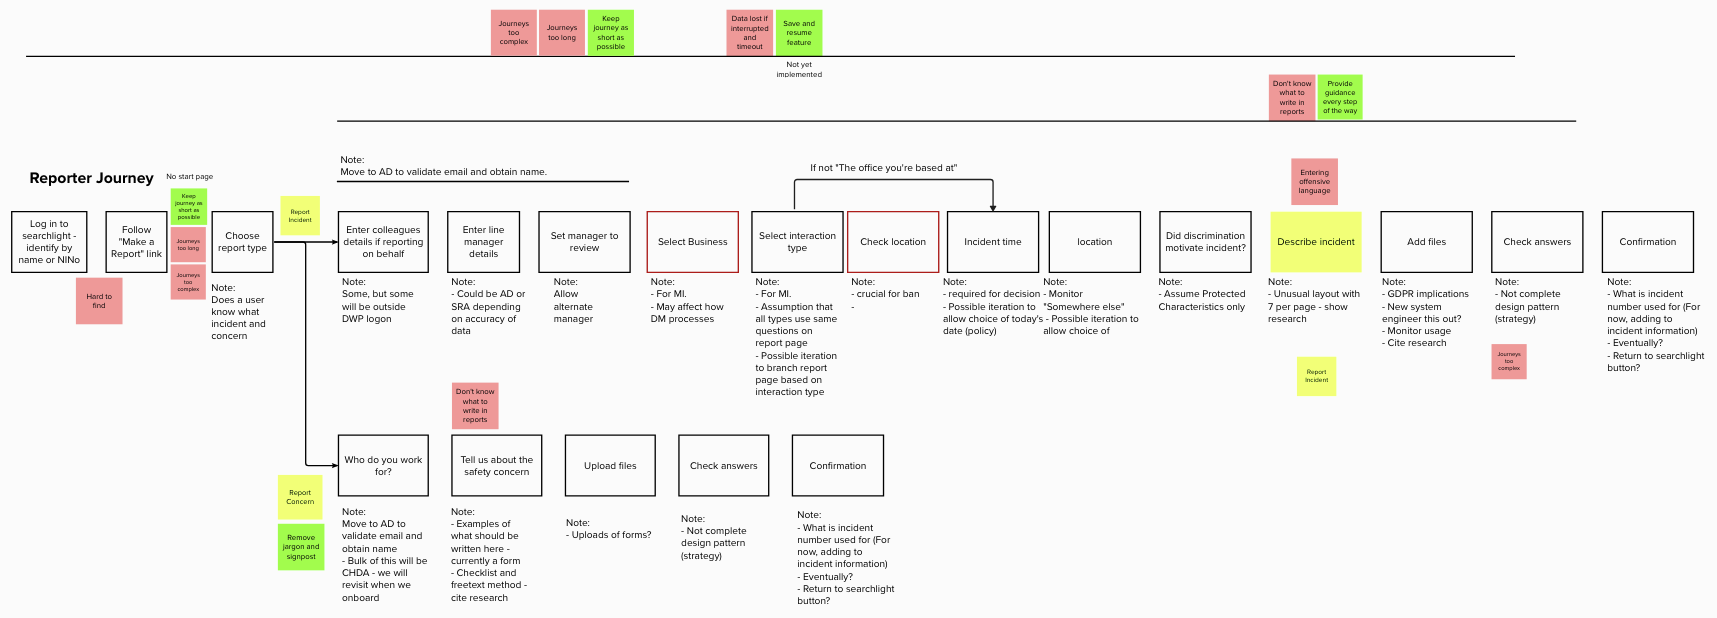
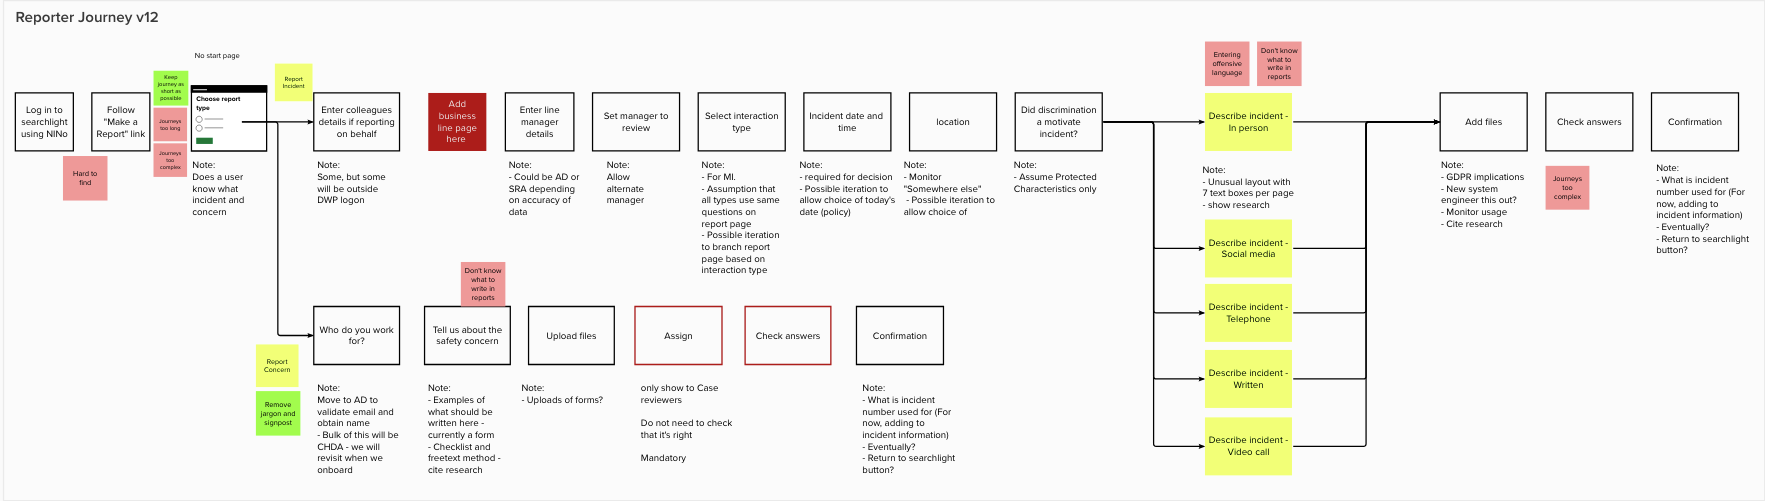
Merge pull request #139 from dwp/assign-case-in-concern-journey
feat (reporter) assign concern in reporter journey

GitOrigin-RevId: f6f52a86bad64d320150d85c279e861376f12af1

Changed region(s): [[0.0, 0.0, 0.9878, 0.988], [0.0, 0.0299, 0.0926, 0.0599]]

diff --git a/app/views/beta/report_incident/reportv12/c03assign_error.html b/app/views/beta/report_incident/reportv12/c03assign_error.html
@@ -1,0 +1,75 @@
+{% extends "layout.html" %}
+{% block pageTitle %}
+  Error: Who should we assign this report to? - Keep Customer Interactions Safe
+{% endblock %}
+{% block beforeContent %}
+  <section aria-label="Phase banner" role="region">
+    {{ govukPhaseBanner({
+      tag: {
+      text: "beta"
+    },
+      html: 'This is a new service – your <a class="govuk-link" href="14reassign_bst_error">feedback</a> will help us to improve it.'
+    }) }}
+  </section>
+  {% include "./templates/key_details_robert_blue.njk" %}
+  <section aria-label="Back" role="region">
+    {{ govukBackLink({
+      text: "Back",
+      href: "javascript:history.back()"
+    }) }}
+  </section>
+{% endblock %}
+{% block content %}
+    <div class="govuk-grid-row">
+      <div class="govuk-grid-column-two-thirds">
+        {{ govukErrorSummary({
+          titleText: "There is a problem",
+          errorList: [
+            {
+              text: "Tell us who should review this report",
+              href: "#assign-by-email"
+            },
+            {
+              text: "Enter their email address",
+              href: "#assign-by-email"
+            },
+            {
+              text: "Enter their email address, in the format name@example.com",
+              href: "#assign-by-email"
+            },
+            {
+              text: "This person cannot access the service",
+              href: "#assign-by-email"
+            }
+          ]
+        }) }}
+        {{ govukInput({
+        id: "assign-by-email",
+        name: "assign-by-email",
+        type: "email",
+        autocomplete: "email",
+        spellcheck: false,
+        hint: {
+          text: "Tell us the email of the decision maker to assign this report to."
+        },
+        label: {
+          text: "Who should we assign this report to?",
+          isPageHeading: true,
+          classes: "govuk-label--l"
+        },
+        errorMessage: {
+          text: "Tell us who should review this report"
+        }
+      }) }}
+      <div class="govuk-button-group">
+        {{ govukButton({
+          text: "Continue",
+          href: "c04check"
+        }) }}
+      </div>
+    </div>
+  </div>
+	{% if not (checked("displaymode", "presentation") == "checked") %}
+		{% include "./notes/c03assign__notes.njk" %}
+	{% endif %}
+{% endblock %}

diff --git a/app/views/beta/report_incident/reportv12/c04check_other.html b/app/views/beta/report_incident/reportv12/c04check_other.html
@@ -14,7 +14,7 @@
       html: 'This is a new service – your <a class="govuk-link" href="#">feedback</a> will help us to improve it.'
     }) }}
   </section>
-  {% include "templates/v2/header_searchlight.njk" %}
+  {% include "./templates/key_details_robert_blue.njk" %}
   <section aria-label="Back" role="region">
     {{ govukBackLink({
       text: "Back",
@@ -30,23 +30,6 @@
   <div class="govuk-!-padding-bottom-9">
     {{ govukSummaryList({
       rows: [
-        {
-          key: {
-            text: "Concern date"
-          },
-          value: {
-            text: "2 August 2023"
-          },
-          actions: {
-            items: [
-              {
-                href: "#",
-                text: "Change",
-                visuallyHiddenText: "Concern date"
-              }
-            ]
-          }
-        },
         {
           key: {
             text: "Work for"
@@ -80,6 +63,23 @@
               }
             ]
           }
+        },
+        {
+          key: {
+            text: "Assign to colleague"
+          },
+          value: {
+            text: "Sadiq Assam"
+          },
+          actions: {
+            items: [
+              {
+                href: "#",
+                text: "Change",
+                visuallyHiddenText: "Assign to colleague"
+              }
+            ]
+          }
         }
       ]
     }) }}
@@ -101,13 +101,13 @@
         {{ govukButton(
             {
               text: "Submit",
-              href: "c04confirm"
+              href: "c05confirm"
             }
           ) }}
       </div>
     </div>
   </div>
 	{% if not (checked("displaymode", "presentation") == "checked") %}
-		{% include "./notes/c03check__notes.njk" %}
+		{% include "./notes/c04check__notes.njk" %}
 	{% endif %}
 {% endblock %}

diff --git a/app/views/beta/report_incident/reportv12/c03assign.html b/app/views/beta/report_incident/reportv12/c03assign.html
@@ -1,0 +1,51 @@
+{% extends "layout.html" %}
+{% block pageTitle %}
+Who should we assign this report to? - Keep Customer Interactions Safe
+{% endblock %}
+{% block beforeContent %}
+  <section aria-label="Phase banner" role="region">
+    {{ govukPhaseBanner({
+      tag: {
+      text: "beta"
+    },
+      html: 'This is a new service – your <a class="govuk-link" href="14reassign_bst_error">feedback</a> will help us to improve it.'
+    }) }}
+  </section>
+  {% include "./templates/key_details_robert_blue.njk" %}
+  <section aria-label="Back" role="region">
+    {{ govukBackLink({
+      text: "Back",
+      href: "javascript:history.back()"
+    }) }}
+  </section>
+{% endblock %}
+{% block content %}
+    <div class="govuk-grid-row">
+      <div class="govuk-grid-column-two-thirds">
+      {{ govukInput({
+        id: "contact-by-email",
+        name: "contact-by-email",
+        type: "email",
+        autocomplete: "email",
+        spellcheck: false,
+        hint: {
+          text: "Tell us the email of the decision maker to assign this report to."
+        },
+        label: {
+          text: "Who should we assign this report to?",
+          isPageHeading: true,
+          classes: "govuk-label--l"
+        }
+      }) }}
+      <div class="govuk-button-group">
+        {{ govukButton({
+          text: "Continue",
+          href: "c04check"
+        }) }}
+      </div>
+    </div>
+  </div>
+	{% if not (checked("displaymode", "presentation") == "checked") %}
+		{% include "./notes/c03assign__notes.njk" %}
+	{% endif %}
+{% endblock %}

diff --git a/app/views/index.html b/app/views/index.html
@@ -141,8 +141,9 @@ Prototype index - Keep Customer Interactions Safe
 									<li><a href="/beta/report_incident/reportv12/c00agentsource">c00agentsource</a></li>
 									<li><a href="/beta/report_incident/reportv12/c01comments">c01 comments</a></li>
 									<li><a href="/beta/report_incident/reportv12/c02fileuploadcheck">c02 fileuploadcheck</a></li>
-									<li><a href="/beta/report_incident/reportv12/c03check">c03 check</a></li>
-									<li><a href="/beta/report_incident/reportv12/c04confirm">c04 confirm</a></li>
+									<li><a href="/beta/report_incident/reportv12/c03assign">c03 assign</a></li>
+									<li><a href="/beta/report_incident/reportv12/c04check">c04 check</a></li>
+									<li><a href="/beta/report_incident/reportv12/c05confirm">c05 confirm</a></li>
 								</ul>
 								<p class="govuk-body">Concern - not used</p>
 								<ul class="govuk-list">

diff --git a/app/views/beta/report_incident/reportv12/c04check.html b/app/views/beta/report_incident/reportv12/c04check.html
@@ -13,7 +13,7 @@
       html: 'This is a new service – your <a class="govuk-link" href="#">feedback</a> will help us to improve it.'
     }) }}
   </section>
-  {% include "templates/v2/header_searchlight.njk" %}
+  {% include "./templates/key_details_robert_blue.njk" %}
   <section aria-label="Back" role="region">
     {{ govukBackLink({
       text: "Back",
@@ -93,13 +93,13 @@
         {{ govukButton(
             {
               text: "Submit",
-              href: "c04confirm"
+              href: "c05confirm"
             }
         ) }}
       </div>
     </div>
   </div>
 	{% if not (checked("displaymode", "presentation") == "checked") %}
-		{% include "./notes/c03check__notes.njk" %}
+		{% include "./notes/c04check__notes.njk" %}
 	{% endif %}
 {% endblock %}

diff --git a/app/views/beta/report_incident/reportv12/c02fileuploadcheck.html b/app/views/beta/report_incident/reportv12/c02fileuploadcheck.html
@@ -13,7 +13,7 @@
       html: 'This is a new service – your <a class="govuk-link" href="10add_error">feedback</a> will help us to improve it.'
     }) }}
   </section>
-  {% include "templates/v2/header_searchlight.njk" %}
+  {% include "./templates/key_details_robert_blue.njk" %}
   <section aria-label="Back" role="region">
     {{ govukBackLink({
       text: "Back",
@@ -52,7 +52,7 @@
       <div>
         {{ govukButton({
           text: "Continue",
-          href: "c03check"
+          href: "c03assign"
         }) }}
       </div>
     </div>

diff --git a/app/views/beta/report_incident/reportv12/c02fileuploadcheck_error.html b/app/views/beta/report_incident/reportv12/c02fileuploadcheck_error.html
@@ -13,7 +13,7 @@
       html: 'This is a new service – your <a class="govuk-link" href="#">feedback</a> will help us to improve it.'
     }) }}
   </section>
-  {% include "templates/v2/header_searchlight.njk" %}
+  {% include "./templates/key_details_robert_blue.njk" %}
   <section aria-label="Back" role="region">
     {{ govukBackLink({
       text: "Back",
@@ -64,7 +64,7 @@
       <div>
         {{ govukButton({
           text: "Continue",
-          href: "c03check"
+          href: "c03assign"
         }) }}
       </div>
     </div>

diff --git a/app/views/beta/report_incident/reportv12/c00agentsource.html b/app/views/beta/report_incident/reportv12/c00agentsource.html
@@ -13,7 +13,7 @@
       html: 'This is a new service – your <a class="govuk-link" href="00agentsource_error">feedback</a> will help us to improve it.'
     }) }}
   </section>
-  {% include "templates/v2/header_searchlight.njk" %}
+  {% include "./templates/key_details_robert_blue.njk" %}
   <section aria-label="Back" role="region">
     {{ govukBackLink({
       text: "Back",

diff --git a/app/views/beta/report_incident/reportv12/c00agentsource_error.html b/app/views/beta/report_incident/reportv12/c00agentsource_error.html
@@ -13,7 +13,7 @@
       html: 'This is a new service – your <a class="govuk-link" href="00agentsource.html">feedback</a> will help us to improve it.'
     }) }}
   </section>
-  {% include "templates/v2/header_searchlight.njk" %}
+  {% include "./templates/key_details_robert_blue.njk" %}
   <section aria-label="Back" role="region">
     {{ govukBackLink({
       text: "Back",

diff --git a/app/views/beta/report_incident/reportv12/c01comments.html b/app/views/beta/report_incident/reportv12/c01comments.html
@@ -13,7 +13,7 @@
       html: 'This is a new service – your <a class="govuk-link" href="01comments_error">feedback</a> will help us to improve it.'
     }) }}
   </section>
-  {% include "templates/v2/header_searchlight.njk" %}
+  {% include "./templates/key_details_robert_blue.njk" %}
   <section aria-label="Back" role="region">
     {{ govukBackLink({
       text: "Back",

diff --git a/app/views/beta/report_incident/reportv12/c01comments_error.html b/app/views/beta/report_incident/reportv12/c01comments_error.html
@@ -13,7 +13,7 @@
       html: 'This is a new service – your <a class="govuk-link" href="01comments">feedback</a> will help us to improve it.'
     }) }}
   </section>
-  {% include "templates/v2/header_searchlight.njk" %}
+  {% include "./templates/key_details_robert_blue.njk" %}
   <section aria-label="Back" role="region">
     {{ govukBackLink({
       text: "Back",

diff --git a/app/views/beta/report_incident/reportv12/c05confirm.html b/app/views/beta/report_incident/reportv12/c05confirm.html
@@ -53,6 +53,6 @@
     </div>
   </div>
 	{% if not (checked("displaymode", "presentation") == "checked") %}
-		{% include "./notes/c04confirm__notes.njk" %}
+		{% include "./notes/c05confirm__notes.njk" %}
 	{% endif %}
   {% endblock %}
